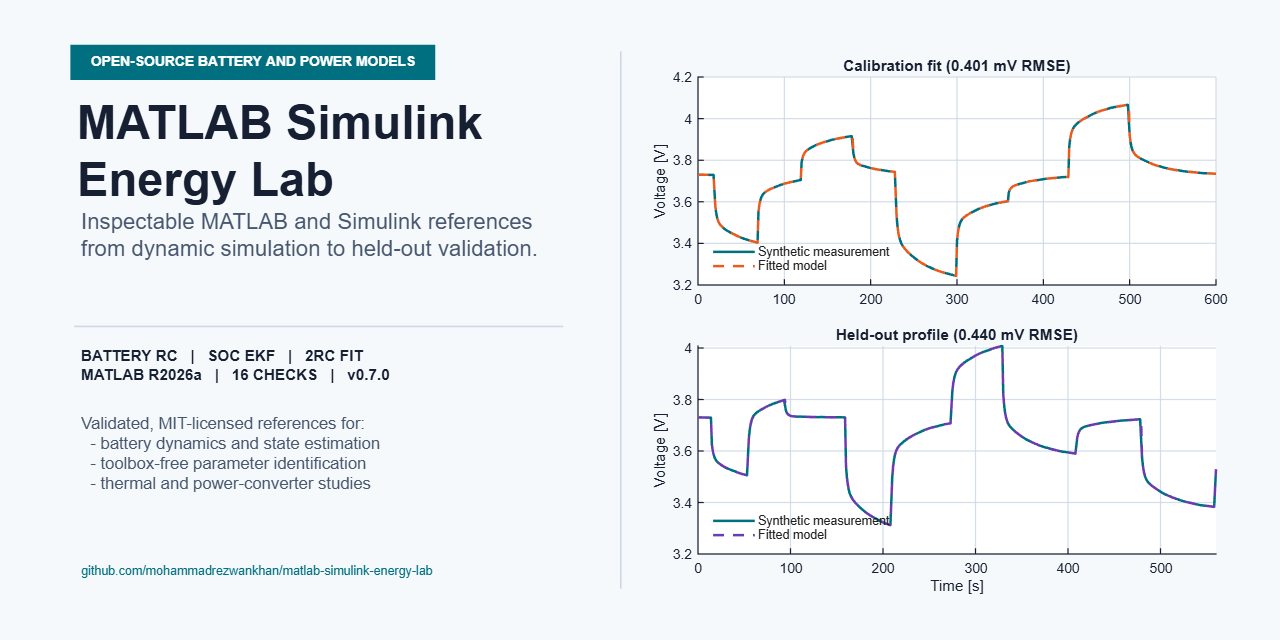
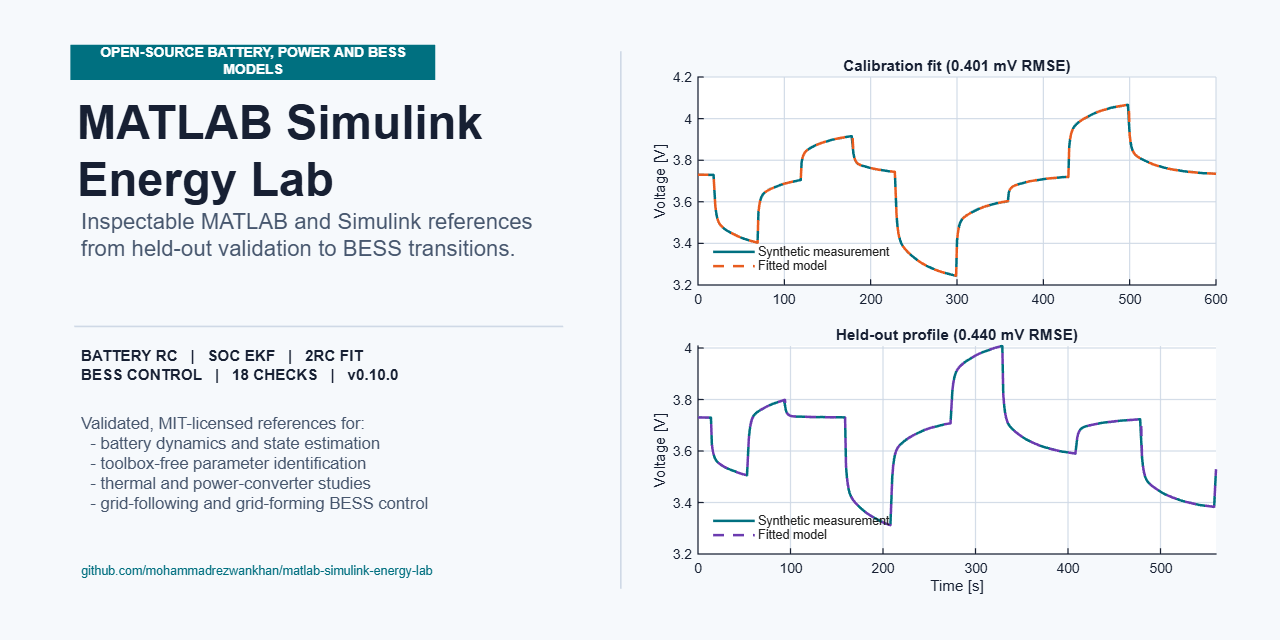
docs: refresh v0.10.0 social preview (#128)
Updates the deterministic social card to v0.10.0, 18 checks, and unified BESS scope while preserving source-derived plots.

diff --git a/assets/generate_social_preview.m b/assets/generate_social_preview.m
@@ -36,7 +36,7 @@ figureHandle = figure( ...
 figureCleanup = onCleanup(@() close(figureHandle));
 
 annotation(figureHandle, 'textbox', [0.055, 0.875, 0.285, 0.055], ...
-    'String', 'OPEN-SOURCE BATTERY AND POWER MODELS', ...
+    'String', 'OPEN-SOURCE BATTERY, POWER AND BESS MODELS', ...
     'FontName', 'Arial', ...
     'FontSize', 10, ...
     'FontWeight', 'bold', ...
@@ -61,7 +61,7 @@ annotation(figureHandle, 'textbox', [0.055, 0.700, 0.410, 0.155], ...
 annotation(figureHandle, 'textbox', [0.058, 0.550, 0.390, 0.130], ...
     'String', sprintf([ ...
         'Inspectable MATLAB and Simulink references\n' ...
-        'from dynamic simulation to held-out validation.']), ...
+        'from held-out validation to BESS transitions.']), ...
     'FontName', 'Arial', ...
     'FontSize', 16, ...
     'Color', mutedColor, ...
@@ -76,7 +76,7 @@ annotation(figureHandle, 'line', [0.058, 0.440], [0.490, 0.490], ...
 annotation(figureHandle, 'textbox', [0.058, 0.365, 0.390, 0.100], ...
     'String', sprintf([ ...
         'BATTERY RC   |   SOC EKF   |   2RC FIT\n' ...
-        'MATLAB R2026a   |   16 CHECKS   |   v0.7.0']), ...
+        'BESS CONTROL   |   18 CHECKS   |   v0.10.0']), ...
     'FontName', 'Arial', ...
     'FontSize', 11, ...
     'FontWeight', 'bold', ...
@@ -85,12 +85,13 @@ annotation(figureHandle, 'textbox', [0.058, 0.365, 0.390, 0.100], ...
     'FitBoxToText', 'off', ...
     'Interpreter', 'none');
 
-annotation(figureHandle, 'textbox', [0.058, 0.195, 0.370, 0.165], ...
+annotation(figureHandle, 'textbox', [0.058, 0.160, 0.370, 0.200], ...
     'String', sprintf([ ...
         'Validated, MIT-licensed references for:\n' ...
         '  - battery dynamics and state estimation\n' ...
         '  - toolbox-free parameter identification\n' ...
-        '  - thermal and power-converter studies']), ...
+        '  - thermal and power-converter studies\n' ...
+        '  - grid-following and grid-forming BESS control']), ...
     'FontName', 'Arial', ...
     'FontSize', 12, ...
     'Color', mutedColor, ...

diff --git a/README.md b/README.md
@@ -10,7 +10,7 @@
 [![GitHub stars](https://img.shields.io/github/stars/mohammadrezwankhan/matlab-simulink-energy-lab?style=social)](https://github.com/mohammadrezwankhan/matlab-simulink-energy-lab)
 [![Open in MATLAB Online](https://img.shields.io/badge/open_in-MATLAB_Online-e86e25.svg)](https://matlab.mathworks.com/open/github/v1?repo=mohammadrezwankhan/matlab-simulink-energy-lab)
 
-![MATLAB Simulink Energy Lab preview showing two-RC battery calibration and held-out voltage validation](assets/social-preview.png)
+![MATLAB Simulink Energy Lab preview highlighting battery modeling, two-RC held-out voltage validation, and unified BESS control](assets/social-preview.png)
 
 > **See the equations become waveforms—and inspect every assumption in between.**
 
